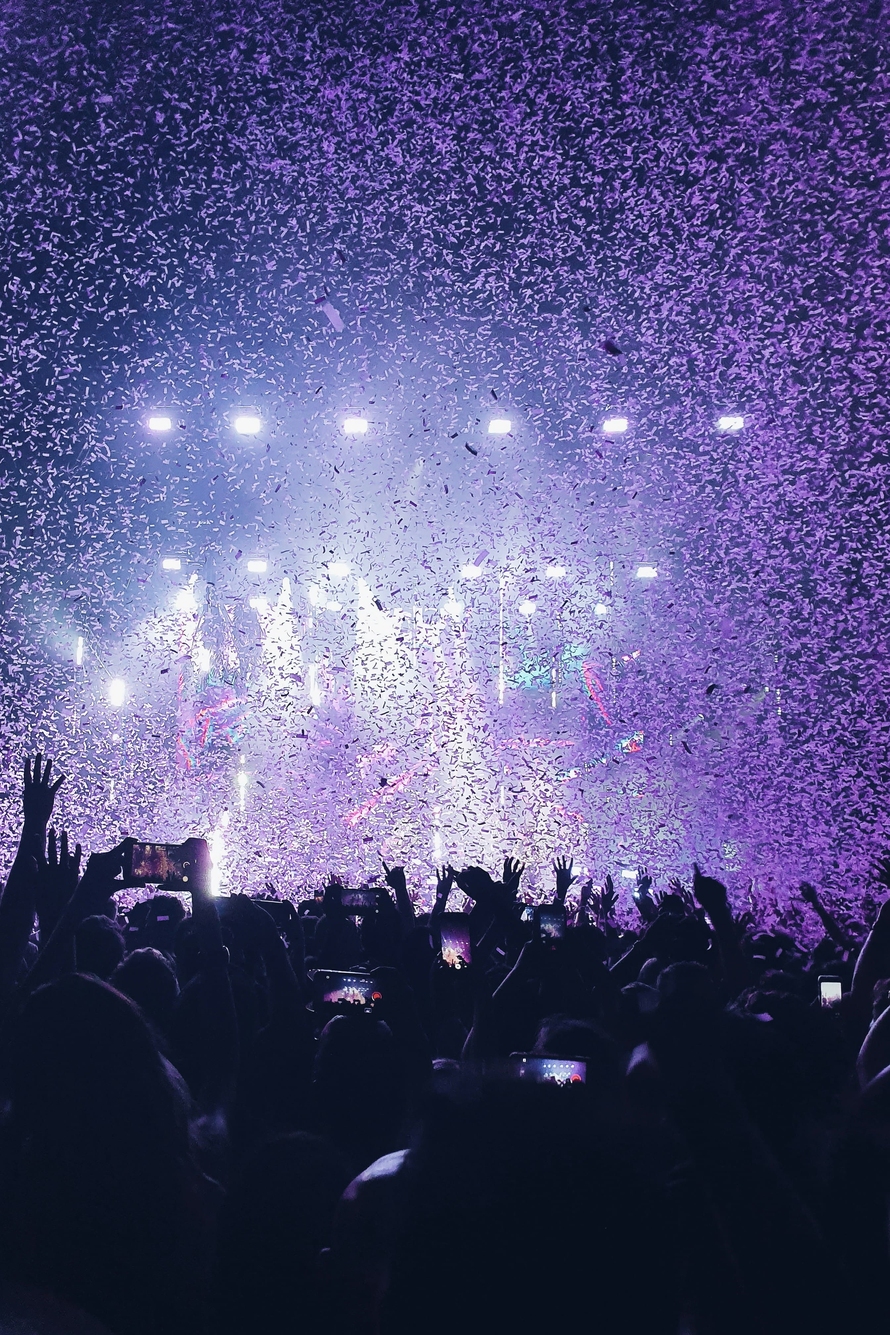
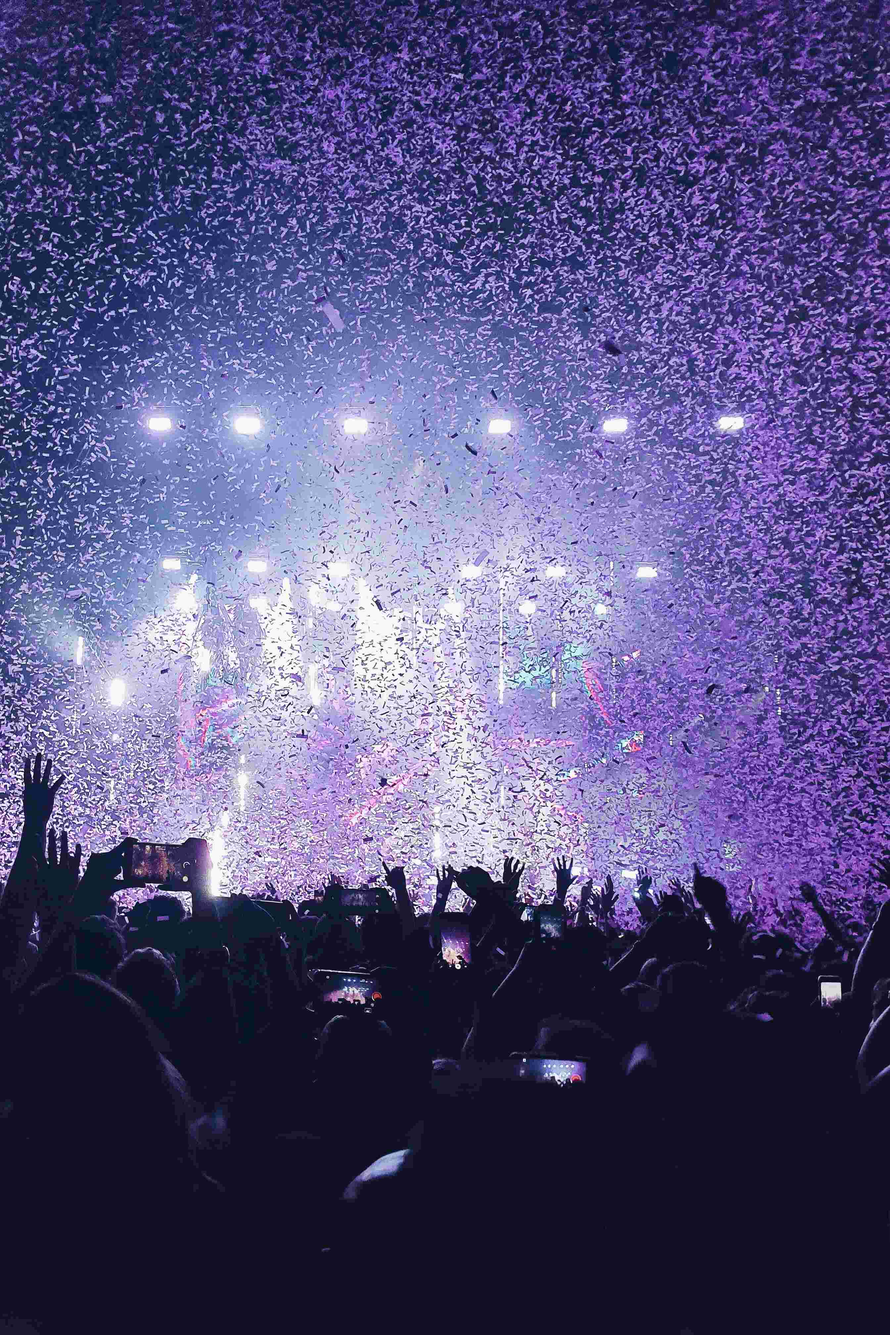
added sliding images

diff --git a/app/events.js b/app/events.js
@@ -4,7 +4,7 @@ import { useEffect, useRef, useState } from "react";
 import { getIntersection } from "mezr";
 
 export default function Events() {
-  const [scroll, setScroll] = useState(500);
+  const [scroll, setScroll] = useState(0);
   const [listItemState, setListItem] = useState(false);
   const listItems = useRef({});
   const [activeImg, setActiveImg] = useState(0);
@@ -80,58 +80,69 @@ export default function Events() {
         onClick={() => {
           setScroll(scroll + 10);
         }}
-        className={`h-6 bg-yellow-400 absolute`}
-        style={{ width: `100px`, top: `${scroll / 10}%` }}
+        className={`h-6 bg-[] absolute`}
+        style={{
+          width: `100px`,
+          top: `${
+            scroll / 10 + 0.06 * scroll > 95 ? 95 : scroll / 10 + 0.06 * scroll
+          }%`,
+        }}
         ref={floatingElement}
       ></div>
       <div
-        ref={ref}
-        id="main-list"
-        className={`text-4xl space-y-10 transition-all pt-2 overflow-scroll h-[100vh] bg-cover `}
+        className="transition-all duration-300 bg-cover"
         style={{ backgroundImage: `url("/events/${imgURLS[activeImg]}")` }}
       >
-        <div
-          ref={(ref) => (listItems.current[0] = ref)}
-          className=""
-          style={{ color: listItemState[0] ? "yellow" : "gray" }}
-        >
-          {scroll}
+        <div className="bg-neutral-900 bg-opacity-40">
+          <div
+            ref={ref}
+            id="main-list"
+            className={`text-3xl space-y-10 font-bold pt-32 pl-14 overflow-scroll h-[100vh]  `}
+          >
+            <div
+              ref={(ref) => (listItems.current[0] = ref)}
+              className=""
+              style={{ color: listItemState[0] ? "#FFFF00" : "gray" }}
+            >
+              PANACHE
+            </div>
+            <div
+              ref={(ref) => (listItems.current[1] = ref)}
+              className="transition-colors"
+              style={{ color: listItemState[1] ? "#FFFF00" : "gray" }}
+            >
+              SHIMMER
+            </div>
+            <div
+              ref={(ref) => (listItems.current[2] = ref)}
+              className=""
+              style={{ color: listItemState[2] ? "#FFFF00" : "gray" }}
+            >
+              ITEM
+            </div>
+            <div className="">ITEM</div>
+            <div className="">ITEM</div>
+            <div className="">ITEM</div>
+            <div className="">ITEM</div>
+            <div className="">ITEM</div>
+            <div className="">ITEM</div>
+            <div className="">ITEM</div>
+            <div className="">ITEM</div>
+            <div className="">ITEM</div>
+            <div className="">ITEM</div>
+            <div className="">ITEM</div>
+            <div
+              className=""
+              style={{ fontSize: listItemState[0] ? "100px" : "20px" }}
+            >
+              {scroll}
+            </div>
+            <div className="">ITEM</div>
+            <div className="">ITEM</div>
+            <div className="">ITEM</div>
+            <div className="">ITEM</div>
+          </div>
         </div>
-        <div
-          ref={(ref) => (listItems.current[1] = ref)}
-          className="transition-colors"
-          style={{ color: listItemState[1] ? "yellow" : "gray" }}
-        >
-          ITEM
-        </div>
-        <div
-          ref={(ref) => (listItems.current[2] = ref)}
-          className=""
-          style={{ color: listItemState[2] ? "yellow" : "gray" }}
-        >
-          ITEM
-        </div>
-        <div className="">ITEM</div>
-        <div className="">ITEM</div>
-        <div className="">ITEM</div>
-        <div className="">ITEM</div>
-        <div className="">ITEM</div>
-        <div className="">ITEM</div>
-        <div className="">ITEM</div>
-        <div className="">ITEM</div>
-        <div className="">ITEM</div>
-        <div className="">ITEM</div>
-        <div className="">ITEM</div>
-        <div
-          className=""
-          style={{ fontSize: listItemState[0] ? "100px" : "20px" }}
-        >
-          {scroll}
-        </div>
-        <div className="">ITEM</div>
-        <div className="">ITEM</div>
-        <div className="">ITEM</div>
-        <div className="">ITEM</div>
       </div>
     </>
   );
